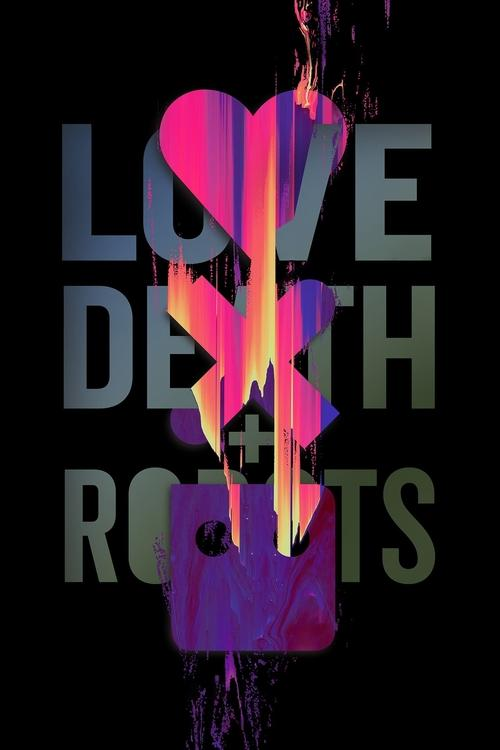
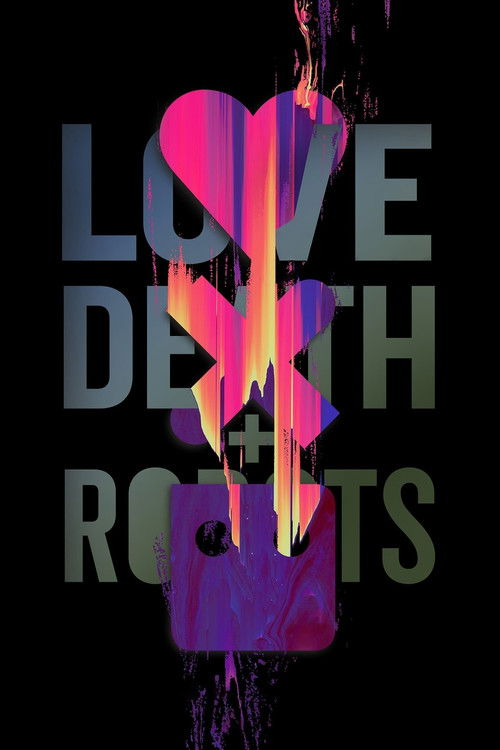
Upgrade poster images to higher quality versions
Replaced low-res thumbnails with full w500 posters from TMDB:
- The Irishman, Full Metal Jacket, Snatch, Zodiac
- City of God, Love Death Robots, The Godfather, Sin City
- The Darjeeling Limited, Oldboy, BoJack Horseman, Gravity Falls

diff --git a/scripts/fetch_posters_playwright.py b/scripts/fetch_posters_playwright.py
@@ -2,17 +2,27 @@
 """Fetch TV/Movie posters using Playwright to scrape TMDB"""
 
 import os
+import re
 import urllib.request
 from playwright.sync_api import sync_playwright
 
 DEST_DIR = "/Users/unbalancedparen/federicocarrone.com/static/images/watching"
 
+# Items to fetch - (search_term, filename, type: tv/movie)
 SHOWS = [
-    # (search_term, filename, type: tv/movie)
-    ("The Killing", "the-killing.jpg", "tv"),
-    ("Boardwalk Empire", "boardwalk-empire.jpg", "tv"),
-    ("Band of Brothers", "band-of-brothers.jpg", "tv"),
-    ("Watchmen", "watchmen.jpg", "movie"),
+    # Small images that need better versions (under 50KB)
+    ("The Irishman", "the-irishman.jpg", "movie"),
+    ("Full Metal Jacket", "full-metal-jacket.jpg", "movie"),
+    ("Snatch", "snatch.jpg", "movie"),
+    ("Zodiac", "zodiac.jpg", "movie"),
+    ("City of God", "city-of-god.jpg", "movie"),
+    ("Love Death Robots", "love-death-robots.jpg", "tv"),
+    ("The Godfather", "the-godfather.jpg", "movie"),
+    ("Sin City", "sin-city.jpg", "movie"),
+    ("The Darjeeling Limited", "the-darjeeling-limited.jpg", "movie"),
+    ("Oldboy", "oldboy.jpg", "movie"),
+    ("BoJack Horseman", "bojack-horseman.jpg", "tv"),
+    ("Gravity Falls", "gravity-falls.jpg", "tv"),
 ]
 
 def fetch_poster(page, search_term, filename, media_type):
@@ -29,8 +39,7 @@ def fetch_poster(page, search_term, filename, media_type):
         src = img.get_attribute("src")
 
         if src:
-            # Convert to full size URL
-            import re
+            # Convert to full size URL (w500)
             full_url = re.sub(r'/t/p/w\d+_and_h\d+_\w+/', '/t/p/w500/', src)
             full_url = re.sub(r'/t/p/w\d+/', '/t/p/w500/', full_url)
 
@@ -46,10 +55,17 @@ def fetch_poster(page, search_term, filename, media_type):
             })
             with urllib.request.urlopen(req, timeout=30) as response:
                 data = response.read()
-                with open(dest, 'wb') as f:
-                    f.write(data)
-                print(f"  ✓ Saved ({len(data)//1024}KB)")
-                return True
+
+                # Only save if larger than existing
+                existing_size = os.path.getsize(dest) if os.path.exists(dest) else 0
+                if len(data) > existing_size:
+                    with open(dest, 'wb') as f:
+                        f.write(data)
+                    print(f"  ✓ Saved ({len(data)//1024}KB, was {existing_size//1024}KB)")
+                    return True
+                else:
+                    print(f"  - Skipped (new {len(data)//1024}KB <= existing {existing_size//1024}KB)")
+                    return False
     except Exception as e:
         print(f"  ✗ Error: {e}")
 
@@ -69,7 +85,7 @@ def main():
 
         browser.close()
 
-    print(f"\nDone! {success}/{len(SHOWS)} posters downloaded.")
+    print(f"\nDone! {success}/{len(SHOWS)} posters updated.")
 
 if __name__ == "__main__":
     main()
